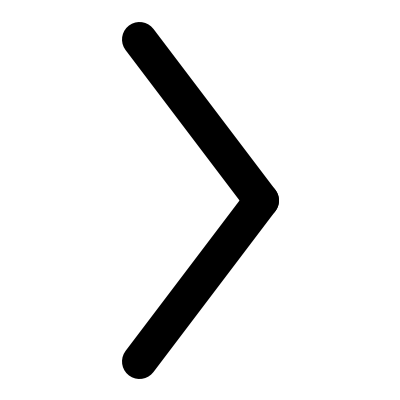
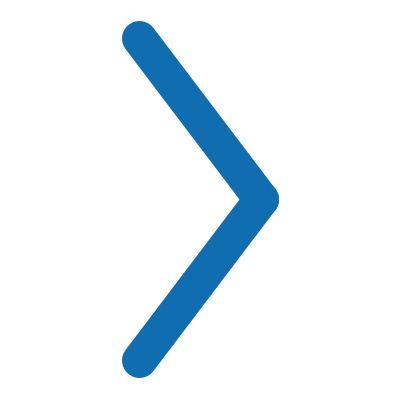
Menu updated, Minor UI changes, Animation fixes and color changes

Changed region(s): [[0.3, 0.03, 0.72, 0.96]]

diff --git a/css/main.css b/css/main.css
@@ -177,6 +177,10 @@ html,body,.wrapper{
 .red-text{
   color: #e94f29;
 }
+
+.mt-2{
+  margin-top: 2px;
+}
 .mt-5{
   margin-top: 5px;
 }
@@ -226,6 +230,10 @@ html,body,.wrapper{
   z-index: 10;
 }
 
+
+.signup p{
+  margin-left: -18px;
+}
 .signup:hover{
   color: #fff;
 }
@@ -277,6 +285,7 @@ html,body,.wrapper{
   -moz-transition: all .25s ease-in-out;
   -o-transition: all .25s ease-in-out;
   transition: all .25s ease-in-out;
+  margin-top: 10px;
 }
 
 .menu a{
@@ -285,14 +294,24 @@ html,body,.wrapper{
   background-position: -100% 0;
 }
 
-.menu:hover, .menu a:hover{
+.menu:hover{
   /*background-color: #fff;*/
-  /*border-bottom: 1px solid #fff;*/
-  text-decoration: underline;
+  /*border-top: 2px solid #fff;*/
+  border-bottom: 2px solid #fff;
+
+  font-size: 1.05em;
+  padding: 0 0 0 0;
+  /*text-decoration: underline;*/
   /*color: #000 !important;*/
   /*border-radius: 10px;*/
   background-position: 0 0;
   font-weight: bold;
+  border-width: medium;
+}
+
+.navbar-nav>li>a{
+  padding-top: 5px;
+  padding-bottom: 5px;
 }
 .top_logo{
   width: 80%;
@@ -309,8 +328,17 @@ html,body,.wrapper{
 }
 
 .cover_copy{
-  font-size: 3em;
-  margin-top: 35%;
+  font-size: 3.2em;
+  /*margin-top: 35%;*/
+}
+
+.dwld_btn_land{
+  height: 40px;
+  background: #e94f29;
+  outline: none;
+  border: none;
+  padding: 0 36px 0 36px;
+  font-size: 1.2em;
 }
 
 .dwld_btn{
@@ -322,7 +350,8 @@ html,body,.wrapper{
 }
 
 .availble_text{
-  font-size: 1.5em;
+  font-size: 1.3em;
+  padding-left: 20px;
 }
 
 .availble_text span{
@@ -348,7 +377,11 @@ html,body,.wrapper{
 }
 
 .features_sec{
-  /*display: none;*/
+  display: none;
+  -webkit-transition: all 3s ease-in-out;
+  -moz-transition: all 3s ease-in-out;
+  -o-transition: all 3s ease-in-out;
+  transition: all 3s ease-in-out;
 }
 
 .steps{
@@ -375,7 +408,7 @@ html,body,.wrapper{
 }
 
 .footer{
-  background: #666667;
+  background: #33333A;
 }
 
 .footer_fixed{

diff --git a/js/main.js b/js/main.js
@@ -15,7 +15,7 @@ $(document).ready(function(){
         //Animate the phone on page load
         coverPhoneTop = coverHeight - $('.cover_phone').height();
         $('.cover_phone').css({
-          'margin-top':coverPhoneTop+'px'
+          'margin-top':(coverPhoneTop-20)+'px'
         })
 
         coverCopyTop = ( (coverHeight - $('.top_bar').height() - $('navbar').height()) - $('.cover_text').height() )/2;
@@ -105,7 +105,7 @@ $(document).ready(function(){
         }
 
         //Animate the features section
-        if(top > coverHeight - coverHeight-200){
+        if(top > coverHeight - 200 && top < parseInt(coverHeight)+parseInt(featuresHeight)){
           fadeStuff(0);
           function fadeStuff(i){
             if(i<4){
@@ -113,16 +113,23 @@ $(document).ready(function(){
               // $($('.features_sec')[i]).fadeIn(function(){
               //   $(this).addClass('animated fadeInUp');
               // });
-              $($('.features_sec')[i]).addClass('animated fadeInUp');;
-                i++;
-                setTimeout(function(){
-                  fadeStuff(i);
-                },200)
+
+              //$($('.features_sec')[i]).addClass('animated zoomIn');;
+              $('.features_sec').fadeIn().addClass('animated zoomIn');
+              $('.features').css({
+                'min-height' : $('.features').height()+'px'
+              })
+                // i++;
+                // setTimeout(function(){
+                //   fadeStuff(i);
+                // },200)
             }
             else{
               return true;
             }
           }
+        }else{
+          $('.features_sec').fadeOut().removeClass('animated zoomIn');
         }
 
         //Animate phone on how to use section

diff --git a/assets/jquery.bxslider.css b/assets/jquery.bxslider.css
@@ -99,13 +99,13 @@
 .bx-wrapper .bx-prev {
 	left: 10px;
 	/*background: url(images/controls.png) no-repeat 0 -32px;*/
-	-moz-transform: scaleX(-1);
+	/*-moz-transform: scaleX(-1);
     -o-transform: scaleX(-1);
     -webkit-transform: scaleX(-1);
     transform: scaleX(-1);
     filter: FlipH;
-    -ms-filter: "FlipH";
-	background: url(../img/arrow.png);
+    -ms-filter: "FlipH";*/
+	background: url(../img/arrow_prev.png?v=sds);
 	-webkit-background-size: 100% 100%;
 	background-size: 100% 100%;
 }
@@ -113,7 +113,7 @@
 .bx-wrapper .bx-next {
 	right: 10px;
 	/*background: url(images/controls.png) no-repeat -43px -32px;*/
-	background: url(../img/arrow.png);
+	background: url(../img/arrow.png?v=ss);
 	-webkit-background-size: 100% 100%;
 	background-size: 100% 100%;
 }

diff --git a/index.php b/index.php
@@ -10,8 +10,8 @@
           <div class="container-fluid">
             <div class="col-sm-7 no-pad">
               <div class="cover_text">
-                <p class="roboto-thin white-text cover_copy">Save when you call <br> global with Smile Dialer</p>
-                <button class="dwld_btn white-text roboto-regular">DOWNLOAD THE APP</button>
+                <p class="roboto-thin white-text cover_copy easing">Save when you call <br> global with Smile Dialer</p>
+                <button class="dwld_btn_land white-text mt-5 roboto-regular">DOWNLOAD THE APP</button>
                 <p class="white-text roboto-light mt-5 availble_text">
                   Available on
                   <span class="icon-apple"></span>
@@ -62,7 +62,7 @@
           <div class="container-fluid no-pad">
             <h2 class="white-text roboto-medium center-text mt-40">HOW TO USE</h2>
             <div class="col-sm-7 instructions no-pad mt-50">
-              <h2 class="dincond-bold white-text col-sm-offset-2">VIA MOBILE APPLICATIONS</h2>
+              <h3 class="roboto-regular white-text col-sm-offset-2">VIA MOBILE APPLICATIONS</h3>
               <ol class="roboto-light white-text steps">
                 <li>Enter the Brand Pin/Operator code of respective dialer downloaded.</li>
                 <li>Enter the User ID and Password you received in your email against your plan purchase.</li>

diff --git a/includes/header.php b/includes/header.php
@@ -10,7 +10,7 @@
         <a href="#"><span class="icon-twitter"></span></a>
         <!-- <a href="#"><span class="icon-google-plus"></span></a> -->
       </span>
-      <a href="#" class="no-dec white-text signup"><p class="mt-5 col-sm-6 col-xs-6 ">Sign Up | Login</p></a>
+      <a href="#" class="no-dec white-text signup"><p class="mt-2 col-sm-6 col-xs-6 ">Sign Up &nbsp;|&nbsp; Login</p></a>
     </div>
   </div>
 </div>
